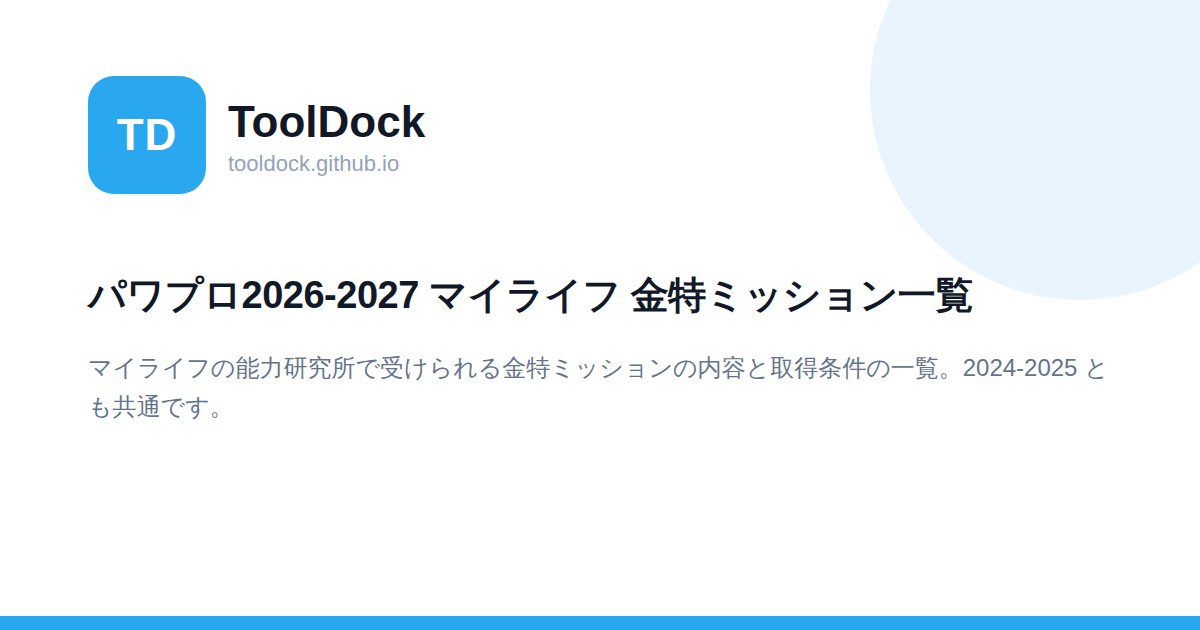
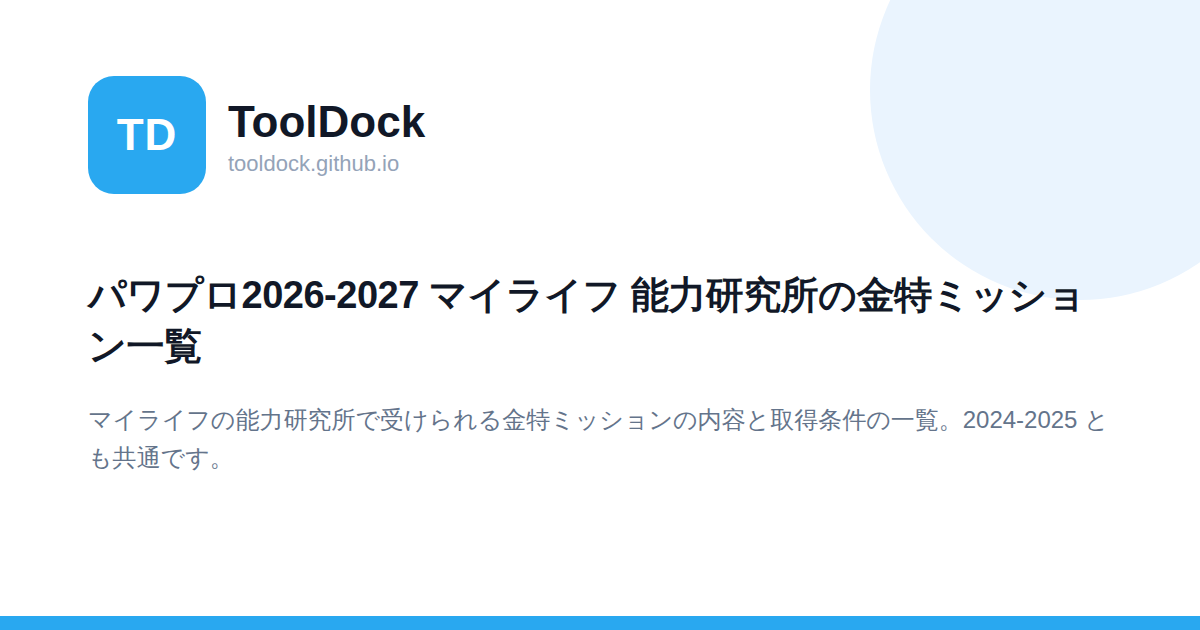
マイライフ4本のタイトルを【パワプロ2026-2027】始まりにし、重複したQ&amp;Aを整理する (#33)
・よくある質問が二重になっていた
  相互リンクを足したとき、既にリンクを含むQ&Aがあるページに
  同じ内容をもう1問加えてしまっていた。
  crystal は「金特ミッションの一覧もありますか？」と、
  shippo は「特殊能力ファイルのクリスタルもまとめていますか？」と
  内容が重なっていた。
  さらに挿入位置が悪く、保存についての質問を挟んで
  リンクの質問が2か所に分かれていた。
  重複を消し、各ページの最後に1問だけ置くように直した。

・タイトルを【パワプロ2026-2027】始まりにした
  半角の年号は表示幅が半分なので、括弧を先頭に置いても
  32幅の中に主要な語が収まる。実測で確認した。
    kintoku       …能力研究所（金特研究 まで表示
    crystal       …イベントクリスタル（小）（大）の まで表示
    crystal-banno …万能クリスタル（小）（大）の入手 まで表示
    shippo        …尻尾の入手方法一覧｜全12種・晩成 まで表示

・kintoku の見出しと一覧名に「能力研究所」を入れた
  <title>には入っていたが、h1・パンくず・トップの一覧では
  抜けていた。見出しが伸びるぶん、狭い画面での文字サイズを
  2.2rem から1.35rem に下げ、4行239pxだったものを3行110pxにした。

OGP画像も作り直し、全34ページの監査を通した。

Claude-Session: https://claude.ai/code/session_01SKh1jhAp32CEmbZCaaEmgk

Changed region(s): [[0.0617, 0.6333, 0.925, 0.754], [0.0617, 0.5127, 0.925, 0.6032], [0.5242, 0.4222, 0.8942, 0.5127]]

diff --git a/js/tool-data.js b/js/tool-data.js
@@ -309,7 +309,7 @@ window.TOOLS = [
     id: "shippo",
     title: "マイライフ 尻尾 入手方法一覧",
     desc: "尻尾12種の入手方法とオススメ度。9個でMAXになるので、あと何個かも分かります。",
-    seoTitle: "マイライフ 尻尾の入手方法一覧｜全12種と晩成化MAXの9個（パワプロ2026-2027）",
+    seoTitle: "【パワプロ2026-2027】マイライフ 尻尾の入手方法一覧｜全12種・晩成化MAXは9個",
     seoDesc: "パワプロ2026-2027のマイライフで手に入る尻尾12種の入手方法一覧です。9個集めると晩成化がMAXになるため、狙って取りやすいものから埋められるようオススメ度を3段階で付けました。チェックを付けて取り済みを管理でき、MAXまであと何個かがその場で分かります。子・丑・寅から亥まで、干支ごとの条件をまとめています。",
     category: "game",
     url: "/shippo/"
@@ -319,7 +319,7 @@ window.TOOLS = [
     id: "crystal-banno",
     title: "マイライフ 万能クリスタル（小）（大）入手方法一覧",
     desc: "万能クリスタル（小）9通りと（大）の入手方法を、チェックしながら管理できる一覧。",
-    seoTitle: "マイライフ 万能クリスタル（小）（大）の入手方法｜全9通り（パワプロ2026-2027）",
+    seoTitle: "【パワプロ2026-2027】マイライフ 万能クリスタル（小）（大）の入手方法｜全9通り",
     seoDesc: "パワプロのマイライフで、特殊能力ファイルに使う万能クリスタル（小）（大）の入手方法一覧です。（小）は9通りで、チェックを付けて取り済みを管理できます。（大）は夜の商店街「怪しい露店」で（小）2個と交換する以外に入手方法がありません。2024-2025と2026-2027で違いはないと見られます。",
     category: "game",
     url: "/crystal-banno/"
@@ -329,7 +329,7 @@ window.TOOLS = [
     id: "crystal",
     title: "マイライフ イベントクリスタル（小）（大）入手方法一覧",
     desc: "特殊能力ファイルに使うイベントクリスタルの入手方法と、怪しい露店の交換レート一覧。",
-    seoTitle: "マイライフ イベントクリスタル（小）（大）の入手方法と交換レート｜パワプロ2026-2027",
+    seoTitle: "【パワプロ2026-2027】マイライフ イベントクリスタル（小）（大）の入手方法と交換レート",
     seoDesc: "パワプロのマイライフで、特殊能力ファイルに使うイベントクリスタル（小）（大）の入手方法一覧です。（小）は11通り、（大）は3通り。チェックを付けて取り済みを管理できます。夜の商店街「怪しい露店」の場所と、クリスタル大15種類の交換レート（小2〜5個）も掲載。2024-2025と2026-2027で違いはないと見られます。",
     category: "game",
     url: "/crystal/"
@@ -337,9 +337,9 @@ window.TOOLS = [
 
   {
     id: "kintoku",
-    title: "パワプロ2026-2027 マイライフ 金特ミッション一覧",
+    title: "パワプロ2026-2027 マイライフ 能力研究所の金特ミッション一覧",
     desc: "マイライフの能力研究所で受けられる金特ミッションの内容と取得条件の一覧。2024-2025 とも共通です。",
-    seoTitle: "マイライフ 能力研究所（金特研究所）の金特ミッション一覧｜全51種（パワプロ2026-2027）",
+    seoTitle: "【パワプロ2026-2027】マイライフ 能力研究所（金特研究所）の金特ミッション一覧｜全51種",
     seoDesc: "マイライフの能力研究所（金特研究所）で受けられる金特ミッション全51種の一覧です。金特ごとの達成条件・対象地域・投手／野手の区分がわかり、金特名や条件で検索・絞り込みできます。パワプロ2026-2027と2024-2025で内容は同じなので、どちらのバージョンでも使えます。",
     category: "game",
     url: "/kintoku/"

diff --git a/shippo/index.html b/shippo/index.html
@@ -6,7 +6,7 @@
 
 <!-- 検索結果で切られる先頭30字ほどに、探している語と件数を入れる。
      サイト名は付けない（この長さでは席がもったいない） -->
-<title>マイライフ 尻尾の入手方法一覧｜全12種と晩成化MAXの9個（パワプロ2026-2027）</title>
+<title>【パワプロ2026-2027】マイライフ 尻尾の入手方法一覧｜全12種・晩成化MAXは9個</title>
 <meta name="description" content="パワプロ2026-2027のマイライフで手に入る尻尾12種の入手方法一覧です。9個集めると晩成化がMAXになるため、狙って取りやすいものから埋められるようオススメ度を3段階で付けました。チェックを付けて取り済みを管理でき、MAXまであと何個かがその場で分かります。子・丑・寅から亥まで、干支ごとの条件をまとめています。">
 <link rel="canonical" href="https://tooldock.github.io/shippo/">
 
@@ -490,20 +490,16 @@ A. 紅水晶は下一桁が3か7の日の夜に川岸を散歩すると手に入
 虹のサンゴは4月・6月・8月の夜に海岸を散歩すると手に入り、
 ラジコンサーキットで寅の尻尾と交換できます。</p>
 
-<p><strong>Q. マイライフの他のまとめもありますか？</strong><br>
-A. <a href="/kintoku/">能力研究所の金特ミッション一覧</a>、
-<a href="/crystal/">イベントクリスタルの入手方法</a>、
-<a href="/crystal-banno/">万能クリスタルの入手方法</a>をまとめています。</p>
-
 <p><strong>Q. チェックした内容は保存されますか？</strong><br>
 A. お使いのブラウザに保存され、次に開いたときも残ります。
 サーバーに送信されることはありません。
 ブラウザの閲覧データを消すと一緒に消えます。</p>
 
-<p><strong>Q. 特殊能力ファイルのクリスタルもまとめていますか？</strong><br>
-A. <a href="/crystal/">イベントクリスタル</a>と
-<a href="/crystal-banno/">万能クリスタル</a>の入手方法をまとめています。
-金特は<a href="/kintoku/">能力研究所の金特ミッション一覧</a>をご覧ください。</p>
+
+<p><strong>Q. マイライフの他のまとめもありますか？</strong><br>
+A. <a href="/kintoku/">能力研究所の金特ミッション一覧</a>、
+<a href="/crystal/">イベントクリスタルの入手方法</a>、
+<a href="/crystal-banno/">万能クリスタルの入手方法</a>をまとめています。</p>
 
 </article>
 

diff --git a/crystal/index.html b/crystal/index.html
@@ -6,7 +6,7 @@
 
 <!-- 検索結果で切られる先頭30字ほどに、探している語と件数を入れる。
      サイト名は付けない（この長さでは席がもったいない） -->
-<title>マイライフ イベントクリスタル（小）（大）の入手方法と交換レート｜パワプロ2026-2027</title>
+<title>【パワプロ2026-2027】マイライフ イベントクリスタル（小）（大）の入手方法と交換レート</title>
 <meta name="description" content="パワプロのマイライフで、特殊能力ファイルに使うイベントクリスタル（小）（大）の入手方法一覧です。（小）は11通り、（大）は3通り。チェックを付けて取り済みを管理できます。夜の商店街「怪しい露店」の場所と、クリスタル大15種類の交換レート（小2〜5個）も掲載。2024-2025と2026-2027で違いはないと見られます。">
 <link rel="canonical" href="https://tooldock.github.io/crystal/">
 
@@ -535,19 +535,16 @@ A. オークションの初回落札、優勝旅行の初回、
 ミゾットから装備品を初めてもらったときは一度きりです。
 職人の改良は職人ごとに初回のぶんがあります。</p>
 
-<p><strong>Q. マイライフの他のまとめもありますか？</strong><br>
-A. <a href="/kintoku/">能力研究所の金特ミッション一覧</a>、
-、
-<a href="/crystal-banno/">万能クリスタルの入手方法</a>、
-<a href="/shippo/">尻尾の入手方法</a>をまとめています。</p>
-
 <p><strong>Q. チェックした内容は保存されますか？</strong><br>
 A. お使いのブラウザに保存され、次に開いたときも残ります。
 サーバーに送信されることはありません。
 ブラウザの閲覧データを消すと一緒に消えます。</p>
 
-<p><strong>Q. 金特ミッションの一覧もありますか？</strong><br>
-A. <a href="/kintoku/">マイライフ 能力研究所の金特ミッション一覧</a>にまとめています。</p>
+
+<p><strong>Q. マイライフの他のまとめもありますか？</strong><br>
+A. <a href="/kintoku/">能力研究所の金特ミッション一覧</a>、
+<a href="/crystal-banno/">万能クリスタルの入手方法</a>、
+<a href="/shippo/">尻尾の入手方法</a>をまとめています。</p>
 
 </article>
 
